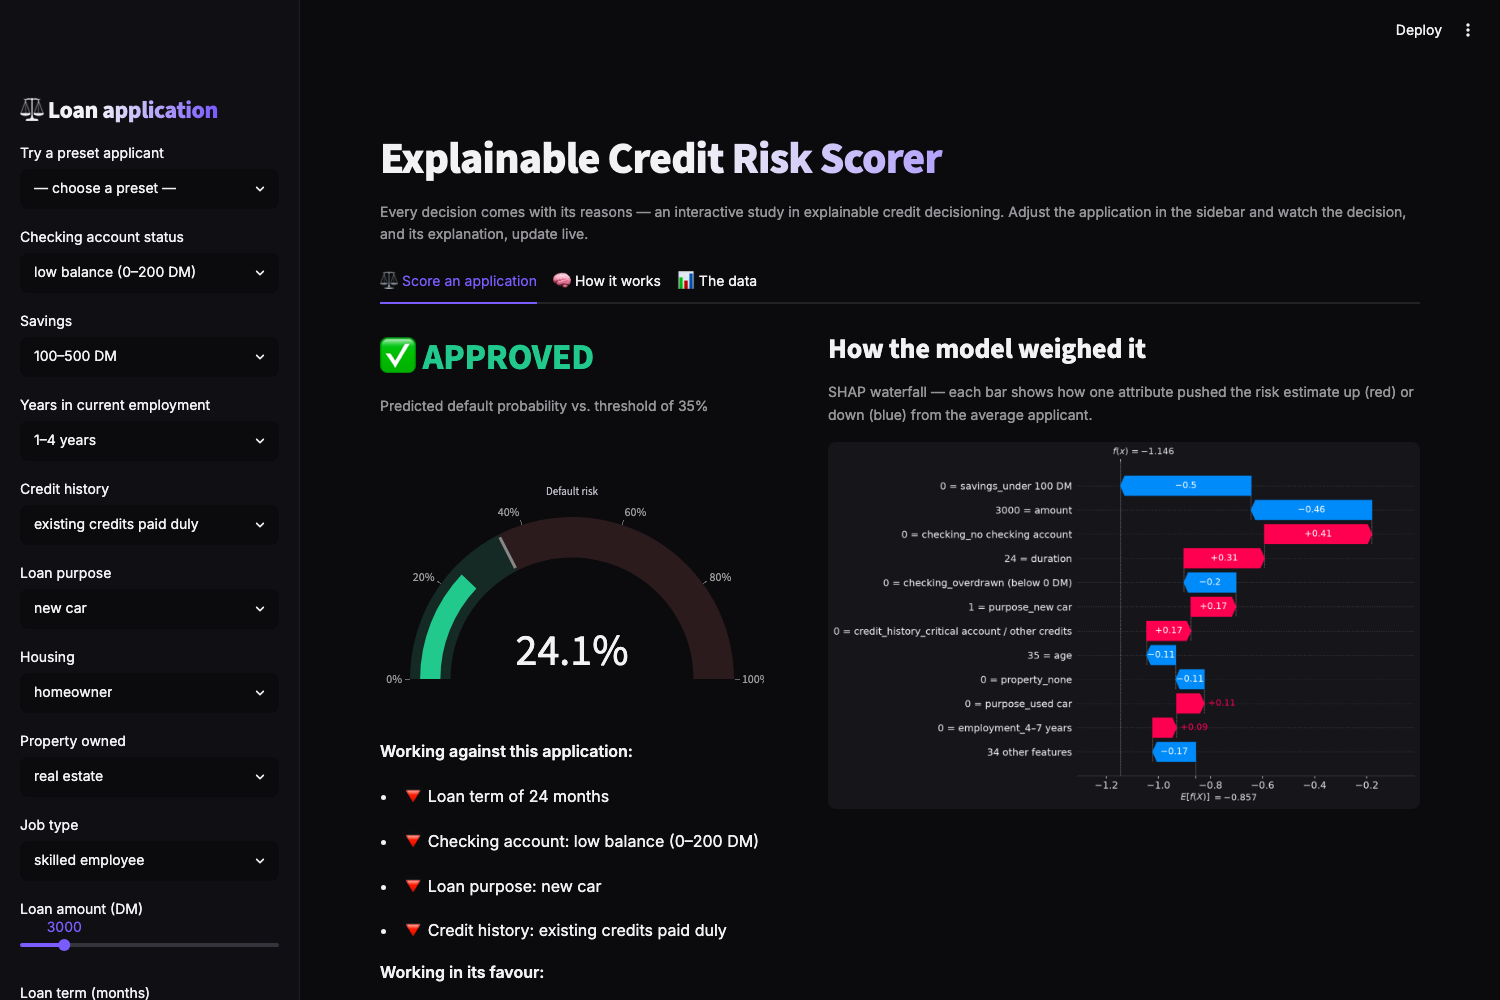
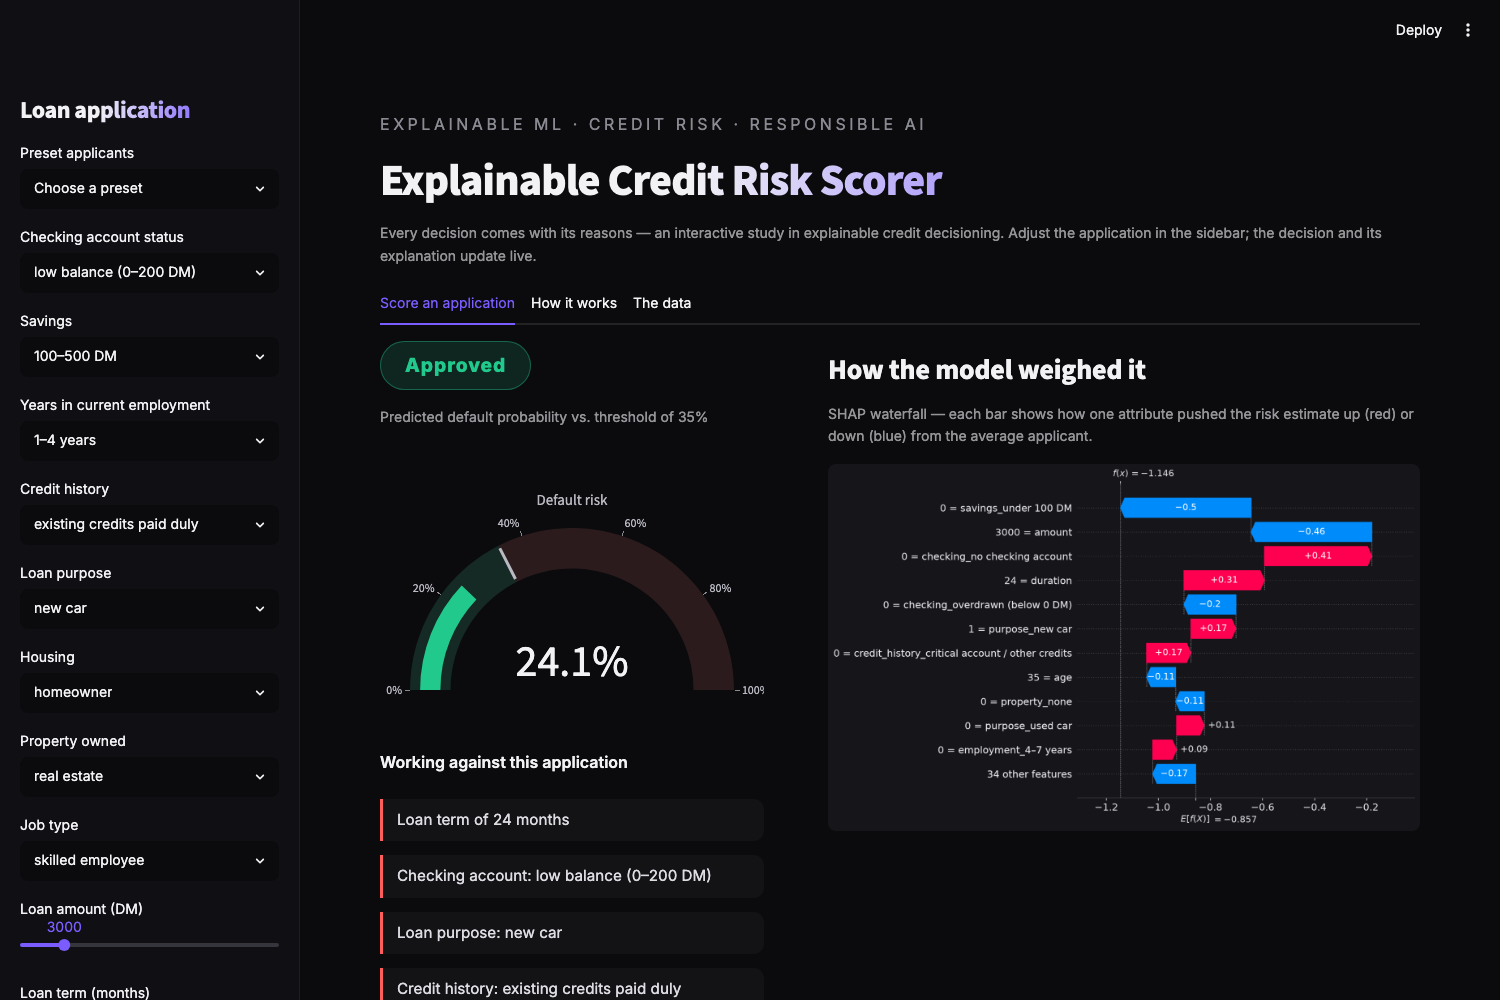
Polish: remove emojis, fix dark-mode contrast, add hiring-manager mapping
Luminance-based text restyling for SHAP figures, color-coded reason
cards, verdict pill, and a checklist mapping demo elements to typical
job-description requirements.

diff --git a/app.py b/app.py
@@ -15,7 +15,7 @@ from data_prep import DECODE, load_data
 from model import score_application, train_model
 
 st.set_page_config(page_title="Explainable Credit Risk Scorer",
-                   page_icon="⚖️", layout="wide")
+                   page_icon=":material/balance:", layout="wide")
 branding.inject()
 
 
@@ -32,20 +32,20 @@ def load_decoded():
 ART = load_artifacts()
 
 PERSONAS = {
-    "— choose a preset —": None,
-    "🎓 Recent graduate, first loan": dict(
+    "Choose a preset": None,
+    "Recent graduate — first loan": dict(
         checking="low balance (0–200 DM)", duration=24, amount=4500,
         credit_history="no credits taken", purpose="education",
         savings="under 100 DM", employment="under 1 year", installment_rate=4,
         property="none", age=23, housing="renting", existing_credits=1,
         job="skilled employee"),
-    "🏠 Established homeowner, car loan": dict(
+    "Established homeowner — car loan": dict(
         checking="healthy balance (≥ 200 DM)", duration=18, amount=3200,
         credit_history="existing credits paid duly", purpose="used car",
         savings="500–1,000 DM", employment="≥ 7 years", installment_rate=2,
         property="real estate", age=44, housing="homeowner",
         existing_credits=1, job="management / self-employed"),
-    "⚠️ Overextended borrower": dict(
+    "Overextended borrower": dict(
         checking="overdrawn (below 0 DM)", duration=48, amount=9800,
         credit_history="past payment delays", purpose="business",
         savings="none / unknown", employment="1–4 years", installment_rate=4,
@@ -56,9 +56,9 @@ PERSONAS = {
 # ---------------- sidebar: the application form ----------------
 
 with st.sidebar:
-    st.title("⚖️ Loan application")
+    st.title("Loan application")
 
-    persona = st.selectbox("Try a preset applicant", list(PERSONAS))
+    persona = st.selectbox("Preset applicants", list(PERSONAS))
     p = PERSONAS[persona] or {}
 
     def sel(label, key, default_idx=0):
@@ -102,15 +102,16 @@ m = ART["metrics"]
 
 # ---------------- header ----------------
 
+branding.eyebrow("Explainable ML · Credit Risk · Responsible AI")
 st.title("Explainable Credit Risk Scorer")
 st.caption(
     "Every decision comes with its reasons — an interactive study in explainable "
-    "credit decisioning. Adjust the application in the sidebar and watch the "
-    "decision, and its explanation, update live."
+    "credit decisioning. Adjust the application in the sidebar; the decision and "
+    "its explanation update live."
 )
 
 tab_score, tab_how, tab_data = st.tabs(
-    ["⚖️  Score an application", "🧠  How it works", "📊  The data"]
+    ["Score an application", "How it works", "The data"]
 )
 
 # ================= TAB 1: scoring =================
@@ -119,22 +120,18 @@ with tab_score:
     left, right = st.columns([2, 3], gap="large")
 
     with left:
-        verdict = "✅ APPROVED" if approved else "❌ DECLINED"
-        color = "#21c98d" if approved else "#ff5c5c"
-        st.markdown(
-            f"<h2 style='color:{color};margin-bottom:0'>{verdict}</h2>",
-            unsafe_allow_html=True,
-        )
+        branding.verdict_pill(approved)
         st.caption(f"Predicted default probability vs. threshold of {threshold:.0%}")
 
+        color = "#21c98d" if approved else "#ff5c5c"
         gauge = go.Figure(go.Indicator(
             mode="gauge+number",
             value=pd_prob * 100,
             number={"suffix": "%", "font": {"size": 44, "color": "#f2f2f5"}},
-            title={"text": "Default risk", "font": {"color": "#b9b9c2"}},
+            title={"text": "Default risk", "font": {"color": "#b9b9c2", "size": 15}},
             gauge={
                 "axis": {"range": [0, 100], "ticksuffix": "%",
-                         "tickcolor": "#666", "tickfont": {"color": "#999"}},
+                         "tickcolor": "#8a8a92", "tickfont": {"color": "#b9b9c2"}},
                 "bar": {"color": color},
                 "bgcolor": "rgba(255,255,255,0.04)",
                 "borderwidth": 0,
@@ -143,28 +140,29 @@ with tab_score:
                     {"range": [threshold * 100, 100], "color": "rgba(255,92,92,0.10)"},
                 ],
                 "threshold": {
-                    "line": {"color": "#888", "width": 3},
+                    "line": {"color": "#b9b9c2", "width": 3},
                     "value": threshold * 100,
                 },
             },
         ))
         gauge.update_layout(height=290, margin=dict(l=30, r=30, t=50, b=10),
-                            paper_bgcolor="rgba(0,0,0,0)")
+                            paper_bgcolor="rgba(0,0,0,0)",
+                            font={"color": "#e8e8ec"})
         st.plotly_chart(gauge, use_container_width=True)
 
         if result["hurts"]:
-            st.markdown("**Working against this application:**")
+            st.markdown("**Working against this application**")
             for c in result["hurts"]:
-                st.markdown(f"- 🔻 {c['text']}")
+                branding.reason(c["text"], "neg")
         if result["helps"]:
-            st.markdown("**Working in its favour:**")
+            st.markdown("**Working in its favour**")
             for c in result["helps"]:
-                st.markdown(f"- 🟢 {c['text']}")
+                branding.reason(c["text"], "pos")
 
         if not approved and result["advice"]:
-            st.markdown("**What could change the outcome:**")
+            st.markdown("**What could change the outcome**")
             for a in result["advice"]:
-                st.markdown(f"- 💡 {a.capitalize()}")
+                branding.reason(a.capitalize(), "tip")
 
     with right:
         st.subheader("How the model weighed it")
@@ -208,7 +206,7 @@ with tab_how:
     st.caption(
         "SHAP beeswarm across 250 held-out applicants. Each dot is one person; "
         "position shows how strongly that feature pushed their risk up or down. "
-        "The famous German Credit result is plainly visible: checking-account "
+        "The well-known German Credit result is plainly visible: checking-account "
         "status dominates everything else."
     )
     fig, ax = plt.subplots()
@@ -217,7 +215,7 @@ with tab_how:
     plt.close("all")
 
     st.write("")
-    st.subheader("Design decisions — and their why")
+    st.subheader("Design decisions, and their why")
     with st.expander("Why XGBoost, and not logistic regression or a neural net?"):
         st.markdown(
             "Gradient-boosted trees are the workhorse of tabular credit modelling: "
@@ -265,6 +263,20 @@ with tab_how:
             "lowering risk) are genuine quirks of the data worth interrogating, "
             "not bugs to hide."
         )
+
+    st.write("")
+    st.subheader("Mapped to a hiring manager's checklist")
+    st.markdown(
+        """
+| If your job description says… | This project demonstrates it by… |
+|---|---|
+| Build and validate credit / PD models | XGBoost probability-of-default model with stratified hold-out, calibrated outputs, ROC-AUC and PR-AUC reported without inflation |
+| Explainable AI and model governance | Exact per-decision SHAP attributions, global drivers, model card, and documented design rationale — the audit trail a regulator expects |
+| Responsible AI and fairness | Protected attributes excluded by design, proxy risk acknowledged, bias-audit roadmap stated |
+| Translate models for non-technical stakeholders | Adverse-action reasons and improvement guidance generated in plain English from raw Shapley values |
+| Production engineering discipline | Deterministic feature encoding shared between training and inference, reproducible pipeline, version-controlled and publicly deployed |
+"""
+    )
 
 # ================= TAB 3: the data =================
 

diff --git a/branding.py b/branding.py
@@ -45,7 +45,7 @@ h2, h3 { font-weight: 700 !important; letter-spacing: -0.01em; }
 }
 .stButton button:hover { border-color: #7b5cff; color: #fff; }
 
-[data-testid="stTabs"] button[role="tab"] { font-weight: 600; }
+[data-testid="stTabs"] button[role="tab"] { font-weight: 600; font-size: 0.95rem; }
 
 div[data-testid="stExpander"] {
   border: 1px solid rgba(255, 255, 255, 0.08);
@@ -59,6 +59,7 @@ div[data-testid="stExpander"] {
   font-size: 0.85rem;
 }
 .dl-footer a { color: #2fc8f5; text-decoration: none; }
+
 .dl-step {
   background: #15151a;
   border: 1px solid rgba(255, 255, 255, 0.08);
@@ -73,6 +74,36 @@ div[data-testid="stExpander"] {
   background: linear-gradient(92deg, #7b5cff, #2fc8f5);
   color: white; font-weight: 700; margin-bottom: 8px; font-size: 0.85rem;
 }
+
+.reason {
+  padding: 9px 14px; margin: 7px 0;
+  border-left: 3px solid; border-radius: 0 10px 10px 0;
+  background: rgba(255, 255, 255, 0.03);
+  font-size: 0.95rem; color: #dcdce2;
+}
+.reason.neg { border-color: #ff5c5c; }
+.reason.pos { border-color: #21c98d; }
+.reason.tip { border-color: #2fc8f5; }
+
+.pill {
+  display: inline-block; padding: 8px 24px; border-radius: 999px;
+  font-weight: 800; letter-spacing: 0.05em; font-size: 1.2rem;
+}
+.pill.ok {
+  background: rgba(33, 201, 141, 0.14); color: #21c98d;
+  border: 1px solid rgba(33, 201, 141, 0.4);
+}
+.pill.no {
+  background: rgba(255, 92, 92, 0.12); color: #ff5c5c;
+  border: 1px solid rgba(255, 92, 92, 0.4);
+}
+
+.eyebrow {
+  text-transform: uppercase; letter-spacing: 0.22em;
+  font-size: 0.72rem; color: #8a8a92; margin-bottom: -4px;
+}
+
+table { font-size: 0.92rem; }
 </style>
 """
 
@@ -81,8 +112,27 @@ def inject():
     st.markdown(CSS, unsafe_allow_html=True)
 
 
+def eyebrow(text: str):
+    st.markdown(f'<p class="eyebrow">{text}</p>', unsafe_allow_html=True)
+
+
+def verdict_pill(approved: bool, label_ok: str = "Approved",
+                 label_no: str = "Declined"):
+    cls, label = ("ok", label_ok) if approved else ("no", label_no)
+    st.markdown(f'<span class="pill {cls}">{label}</span>', unsafe_allow_html=True)
+
+
+def reason(text: str, kind: str):
+    """kind: 'neg' (against), 'pos' (in favour), 'tip' (guidance)."""
+    st.markdown(f'<div class="reason {kind}">{text}</div>', unsafe_allow_html=True)
+
+
 def darken(fig):
-    """Restyle a matplotlib figure (e.g. SHAP plots) for the dark theme."""
+    """Restyle a matplotlib figure (e.g. SHAP plots) for the dark theme.
+
+    Any text darker than mid-grey is lifted to the ink colour so axis labels,
+    tick labels and SHAP annotations stay readable on the dark panel.
+    """
     fig.patch.set_facecolor(PANEL)
     for ax in fig.axes:
         ax.set_facecolor(PANEL)
@@ -94,7 +144,9 @@ def darken(fig):
         ax.title.set_color(INK)
     for text in fig.findobj(plt.Text):
         try:
-            if mcolors.to_hex(text.get_color()) == "#000000":
+            r, g, b = mcolors.to_rgb(text.get_color())
+            luminance = 0.299 * r + 0.587 * g + 0.114 * b
+            if luminance < 0.82:
                 text.set_color(INK)
         except (ValueError, TypeError):
             pass

diff --git a/README.md b/README.md
@@ -1,8 +1,8 @@
-# ⚖️ Explainable Credit Risk Scorer
+# Explainable Credit Risk Scorer
 
 **Every credit decision comes with its reasons — SHAP-powered explanations on the classic German Credit dataset.**
 
-**▶ Live demo: https://drishtant-credit-risk.streamlit.app**
+**Live demo: https://drishtant-credit-risk.streamlit.app**
 
 Fill in a loan application and get an instant approve/decline decision — plus a SHAP waterfall showing exactly how each attribute moved the risk estimate, plain-English reasons for and against, and actionable guidance on what could change the outcome.
 